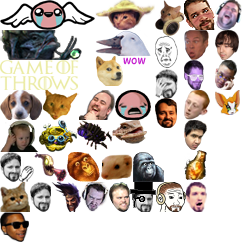
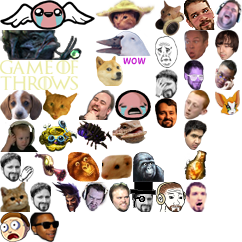
Added DAFUK emote. Removed the unused grunt-contrib-watch module. Bumped version.

Changed region(s): [[0.0, 0.8678, 0.2603, 1.0]]

diff --git a/static/chat/css/style.min.css b/static/chat/css/style.min.css
@@ -1,1 +1,1 @@
-.nano{position:relative;width:100%;height:100%;overflow:hidden}.nano .content{position:absolute;overflow:scroll;overflow-x:hidden;top:0;right:0;bottom:0;left:0}.nano .content:focus{outline:0}.nano .content::-webkit-scrollbar{visibility:hidden}.has-scrollbar .content::-webkit-scrollbar{visibility:visible}.nano:hover>.pane,.pane.active,.pane.flashed{visibility:visible\9;opacity:.99}.nano>.pane{background:rgba(0,0,0,0.3);position:absolute;width:8px;right:5px;top:0;bottom:0;visibility:hidden\9;opacity:.01;-webkit-transition:.2s;-moz-transition:.2s;-o-transition:.2s;transition:.2s}.nano>.pane>.slider{background:#999;position:relative;margin:0 1px;-moz-border-radius:3px;-webkit-border-radius:3px;border-radius:3px}.nano>.pane>.slider:hover,.nano>.pane.active>.slider{background:#eee}.serif{font-family:"Trebuchet MS",sans-serif}.chat{position:relative;width:100%;height:100%;min-width:300px}.chat-output-frame{margin-bottom:35px;height:auto;width:100%;position:absolute;overflow:hidden;top:0;bottom:0;left:0;right:0}.chat-output{width:100%;height:100%}.chat-output .chat-lines{-webkit-backface-visibility:hidden;-webkit-perspective:1000}.chat-lines>div{clear:both;word-wrap:break-word;padding:3px 20px 3px 5px}.chat-lines>div .continue{user-select:none;color:#444}.chat-lines>div i.continue{user-select:none;color:#222}.chat-lines a.user{font-weight:bold;cursor:pointer;font-family:"Trebuchet MS",sans-serif}.chat-lines hr{margin:8px 0}.chat-lines .msg.emote{font-style:italic}.chat-input{width:100%;position:absolute;bottom:0}#chat-top-frame{position:absolute;top:0;left:0;right:0}#chat-bottom-frame{position:absolute;bottom:35px;left:0;right:0}.chat-input>div{margin:5px 0 0 0;background:#2e2e2e}.chat-tools-wrap{position:absolute;right:0;bottom:0;margin:0;user-select:none;-moz-user-select:none;-webkit-user-select:none}.chat-input-wrap{margin:0;margin-right:60px}#user-mute-form,#user-ban-form{margin-top:10px;display:none}#user-mute-form #banTimeLength{width:150px}.chat-input-control{padding:3px 0 0 5px;height:28px;margin:1px;border-radius:3px}.chat-input-control .input{background:0;resize:none;margin:0;padding:0;width:100%;border:0;border-radius:0;box-shadow:none;box-sizing:border-box}.chat-input-control .input:focus{box-shadow:none}.chat-tools-wrap>div{height:30px;overflow:hidden}.chat-tools-wrap .iconbtn{cursor:pointer;width:30px;height:28px;line-height:28px;float:left;display:block;text-align:center;color:#555}.chat-tools-wrap .iconbtn:hover{color:white}.chat-tools-wrap .iconbtn.active{color:white}.chat .chat-lines i[class^="icon-"]{width:16px;line-height:16px;height:16px;margin:0;opacity:1;display:inline-block;vertical-align:middle}.chat-input-control input,.chat-lines{font-family:Helvetica,"Trebuchet MS",Verdana,sans-serif;font-size:13px;line-height:1.5em}.chat-lines time{font-size:11px}.chat-lines a.externallink{color:#02c2ff}.chat-lines a.externallink:visited{color:#004d74}.chat-lines a.externallink:hover,.chat-lines a.externallink:focus{color:#08c}.chat-lines a.nsfw-link{border-bottom:1px dashed red}.chat .chat-lines time,.chat .user-msg i{display:none!important}.chat.chat-time .chat-lines time,.chat.chat-icons .user-msg i,.chat-lines i[class*='icon-subscriber']{display:inline-block!important}.chat-theme-dark{background:#080808;border-radius:0}.chat-theme-dark .chat-input-wrap{border:0}.chat-theme-dark .chat-lines time{color:#414141}.chat-theme-dark .chat-lines>div.highlight time,.chat-lines>div.highlight .continue{color:#838383}.chat-theme-dark .chat-lines>.command-msg,.chat-theme-dark .chat-lines>.error-msg,.chat-theme-dark .chat-lines>.status-msg,.chat-theme-dark .chat-lines>.ui-msg,.chat-theme-dark .chat-lines>.own-msg,.chat-theme-dark .chat-lines>.highlight{color:#dedede}.chat-theme-dark .chat-lines>.broadcast-msg .msg{color:#edea12}.chat-theme-dark .chat-lines>.own-msg{background:linear-gradient(to right,rgba(255,255,255,0.05) 0,rgba(255,255,255,0.05) 90%,rgba(255,255,255,0) 100%)}.chat-theme-dark .chat-lines>.highlight{background:linear-gradient(to right,rgba(0,150,255,0.5) 0,rgba(0,150,255,0) 100%)}.chat-theme-dark .chat-lines>.command-msg,.chat-theme-dark .chat-lines>.own-msg,.chat-theme-dark .chat-lines>.highlight .msg,.chat-theme-dark .chat-lines>.broadcast-msg .msg{text-shadow:1px 1px 0 rgba(0,0,0,0.5)}.chat-theme-dark .chat-input-control{background:#090909;border:0}.chat-theme-dark .chat-input-control input{color:#9e9e9e;background:#090909;text-shadow:none;outline:0}.chat-theme-dark input:input-placeholder{color:#222}.chat-theme-dark input::-webkit-input-placeholder{color:#222}.chat-theme-dark input:-moz-placeholder{color:#222}.chat-theme-dark input::-moz-placeholder{color:#222}.chat-theme-dark input:-ms-input-placeholder{color:#222}.chat-theme-dark .nano>.pane{background:rgba(0,0,0,0.3);width:8px;right:5px;top:5px;bottom:0}.chat-theme-dark .nano>.pane>.slider{background:#999}.chat-theme-dark .nano>.pane>.slider:hover,.chat-theme-dark .nano>.pane.active>.slider{background:#eee}.chat.focus-user .chat-lines>.user-msg{opacity:.3}.chat.focus-user .chat-lines>.user-msg.focused,.chat.focus-user .chat-lines>.user-msg.highlight{opacity:1}.chat .alert{margin-bottom:0;padding-top:4px;padding-bottom:4px;font-size:12px}.hint-popup,.user-tools{width:100%;top:-5px;left:0}.hint-popup>div,.user-tools>div,#chat-broadcasts>div{border-radius:4px;margin:5px 20px 5px 5px}.user-tools .user-tools-user{font-family:"Trebuchet MS",sans-serif}#chat-broadcasts .chat-emote{display:none}.hint-popup>div{box-shadow:0 2px 6px rgba(0,0,0,0.9);padding:0}.hint-popup a:hover{cursor:pointer;color:#6aa7f9}.hint-popup .hidehint,.hint-popup .nexthint{top:0;position:relative;float:right;right:-23px;line-height:20px;-webkit-touch-callout:none;-webkit-user-select:none;-khtml-user-select:none;-moz-user-select:none;-ms-user-select:none;user-select:none;color:#CCC}.hint-popup .hidehint{right:-27px}.hint-popup .hidehint:hover,.hint-popup .nexthint:hover{color:#111}.hint-popup .alert{padding-right:35px}.user-tools-wrap{margin-left:-5px}.user-tools-wrap>a{margin:0 5px}.chat-menu,.user-tools,.hint-popup{display:none;opacity:0}.chat-menu.active,.user-tools.active,.hint-popup.active{display:block;opacity:1}.chat-menu,.user-tools,.hint-popup{font-size:12px}.chat-menu{position:absolute;right:20px;bottom:-5px;width:240px}.chat-menu.active{bottom:0}.chat-menu h5,.user-tools h5{text-shadow:-1px -1px 0 rgba(0,0,0,0.25);user-select:none;-moz-user-select:none;-webkit-user-select:none;background:#4f4f4f;background:linear-gradient(to bottom,#4f4f4f 0,#2e2e2e 100%);border-bottom:1px solid #121212;margin:0;line-height:20px;display:block;padding:5px 15px 5px 10px;border-radius:4px 4px 0 0}.chat-menu .toolbar{width:100%;position:absolute;top:-31px;left:0}.chat-menu li,.chat-menu label{font-size:12px}.chat-menu label{font-weight:normal;margin:0 0 5px 0}.chat-menu label:hover{color:white}.chat-menu .list-wrap,.chat-menu .list-wrap .scrollable{max-height:330px;font-size:.9em}.chat-menu .list-wrap,.user-tools>div{box-shadow:0 2px 6px rgba(0,0,0,0.9);border-radius:0 0 4px 4px;background:rgba(25,25,25,0.9);padding:0}.chat-menu .list-wrap{margin-top:auto}.chat-menu ul,.user-tools .tools{padding:0 10px;margin:10px 0}.chat-menu ul>li:first-child h5{margin-top:0}.chat-menu ul li{text-overflow:ellipsis;overflow:hidden}#chat-user-list ul li{line-height:18px}#chat-user-list h6:first-child{margin-top:10px}#chat-user-list h6{font-weight:bold;margin:0 0 5px 5px}#chat-user-list hr{margin:5px 0}#chat-user-list ul{margin:0}#chat-user-list .user{cursor:pointer;font-family:"Trebuchet MS",sans-serif}.user-tools a#unignoreuser,.user-tools.user-ignored a#ignoreuser{display:none}.user-tools.user-ignored a#unignoreuser{display:inline-block}.chat-menu .nano>.pane{width:8px;right:3px;top:3px;bottom:3px}.chat-login-msg{display:inline-block;width:100%;padding:0 0 0 5px;line-height:30px;color:rgba(255,255,255,0.5);text-shadow:-1px -1px 0 rgba(0,0,0,0.25)}.chat-lines .emotecount{color:white;text-shadow:1px 1px 0 rgba(0,0,0,0.9);font-size:10px;line-height:10px;border-radius:10px;padding:3px 6px;margin:0 0 0 5px;background:#191919}.chat-lines .emotecount{text-shadow:none;animation:emotecount 600ms 1;-webkit-animation:emotecount 600ms 1}@keyframes emotecount{from{color:black;background-color:white}to{color:white;background-color:#333}}@-webkit-keyframes emotecount{from{color:black;background-color:white}to{color:white;background-color:#333}}.chat-lines .emotecount.x5>span{font-size:10px}.chat-lines .emotecount.x10>span{font-size:16px}.chat-lines .emotecount.x20>span{font-size:25px;vertical-align:middle}.chat-lines .emotecount.x30>span{font-size:35px;vertical-align:middle}.chat-lines .emotecount.x50>span{font-size:40px;vertical-align:middle}.chat a.user{color:#cacaca}.chat a.user:hover{color:#fafafa}.chat a.subscriber{color:#488ce7}.chat a.subscriber:hover{color:#6aa7f9}.chat a.flair3{color:#0060ff;text-shadow:1px 1px 0 black}.chat a.flair3:hover{color:#6aa7f9}.chat a.flair8{color:#a427d6;text-shadow:1px 1px 0 black}.chat a.flair8:hover{color:#e564f4}.chat a.vip{color:#4db524}.chat a.vip:hover{color:#4db524}.chat a.bot{color:#e79015}.chat a.bot:hover{color:#e79015}.chat a.admin{color:#b91010}.chat a.admin:hover{color:#f00}.chat .greentext{color:#6ca528}.chat-emote{display:inline-block;position:relative;top:10px;margin:0 2px}.chat-emote.chat-emote-OverRustle{animation:rustle 100ms 7;-webkit-animation:rustle 100ms 7}.chat-emote.chat-emote-OverRustle:hover{animation:rustle1 100ms infinite;-webkit-animation:rustle1 100ms infinite}@keyframes rustle{from{left:0}to{left:2px}}@-webkit-keyframes rustle{from{left:0}to{left:2px}}@keyframes rustle1{from{left:0}to{left:2px}}@-webkit-keyframes rustle1{from{left:0}to{left:2px}}.chat-emote.chat-emote-AngelThump,.chat-emote.chat-emote-Abathur,.chat-emote.chat-emote-GameOfThrows,.chat-emote.chat-emote-KINGSLY,.chat-emote.chat-emote-DuckerZ,.chat-emote.chat-emote-SoDoge,.chat-emote.chat-emote-FrankerZ,.chat-emote.chat-emote-FeedNathan,.chat-emote.chat-emote-Heimerdonger,.chat-emote.chat-emote-ASLAN,.chat-emote.chat-emote-LUL,.chat-emote.chat-emote-DJAslan,.chat-emote.chat-emote-BibleThump,.chat-emote.chat-emote-INFESTINY,.chat-emote.chat-emote-Hhhehhehe,.chat-emote.chat-emote-Klappa,.chat-emote.chat-emote-SURPRISE,.chat-emote.chat-emote-OverRustle,.chat-emote.chat-emote-FerretLOL,.chat-emote.chat-emote-SoSad,.chat-emote.chat-emote-NoTears,.chat-emote.chat-emote-DestiSenpaii,.chat-emote.chat-emote-WhoahDude,.chat-emote.chat-emote-WORTH,.chat-emote.chat-emote-UWOTM8,.chat-emote.chat-emote-TooSpicy,.chat-emote.chat-emote-Sippy,.chat-emote.chat-emote-OhKrappa,.chat-emote.chat-emote-Nappa,.chat-emote.chat-emote-MotherFuckinGame,.chat-emote.chat-emote-Kappa,.chat-emote.chat-emote-Dravewin,.chat-emote.chat-emote-Disgustiny,.chat-emote.chat-emote-DatGeoff,.chat-emote.chat-emote-DappaKappa,.chat-emote.chat-emote-DaFeels,.chat-emote.chat-emote-DURRSTINY,.chat-emote.chat-emote-DESBRO,.chat-emote.chat-emote-CallChad,.chat-emote.chat-emote-CallCatz,.chat-emote.chat-emote-BasedGod,.chat-emote.chat-emote-FIDGETLOL{background-image:url('../img/emoticons.png');background-repeat:no-repeat}.chat-emote.chat-emote-AngelThump{background-position:0 0;width:95px;height:30px;margin-top:-30px}.chat-emote.chat-emote-Abathur{background-position:0 -30px;width:82px;height:30px;margin-top:-30px}.chat-emote.chat-emote-GameOfThrows{background-position:0 -60px;width:79px;height:30px;margin-top:-30px}.chat-emote.chat-emote-KINGSLY{background-position:-95px 0;width:60px;height:30px;margin-top:-30px}.chat-emote.chat-emote-DuckerZ{background-position:-95px -30px;width:56px;height:26px;margin-top:-26px}.chat-emote.chat-emote-SoDoge{background-position:-95px -56px;width:51px;height:30px;margin-top:-30px}.chat-emote.chat-emote-FrankerZ{background-position:0 -90px;width:42px;height:30px;margin-top:-30px}.chat-emote.chat-emote-FeedNathan{background-position:0 -120px;width:39px;height:32px;margin-top:-32px}.chat-emote.chat-emote-Heimerdonger{background-position:-39px -120px;width:38px;height:32px;margin-top:-32px}.chat-emote.chat-emote-ASLAN{background-position:-42px -90px;width:37px;height:30px;margin-top:-30px}.chat-emote.chat-emote-LUL{background-position:-79px -90px;width:36px;height:30px;margin-top:-30px}.chat-emote.chat-emote-DJAslan{background-position:-155px 0;width:29px;height:36px;margin-top:-36px}.chat-emote.chat-emote-BibleThump{background-position:-115px -90px;width:36px;height:30px;margin-top:-30px}.chat-emote.chat-emote-INFESTINY{background-position:-77px -120px;width:35px;height:30px;margin-top:-30px}.chat-emote.chat-emote-Hhhehhehe{background-position:-112px -120px;width:35px;height:24px;margin-top:-24px}.chat-emote.chat-emote-Klappa{background-position:0 -152px;width:34px;height:30px;margin-top:-30px}.chat-emote.chat-emote-SURPRISE{background-position:-34px -152px;width:33px;height:30px;margin-top:-30px}.chat-emote.chat-emote-OverRustle{background-position:-67px -152px;width:33px;height:30px;margin-top:-30px}.chat-emote.chat-emote-FerretLOL{background-position:-100px -152px;width:33px;height:30px;margin-top:-30px}.chat-emote.chat-emote-SoSad{background-position:-155px -36px;width:23px;height:32px;margin-top:-32px}.chat-emote.chat-emote-NoTears{background-position:-133px -152px;width:31px;height:30px;margin-top:-30px}.chat-emote.chat-emote-DestiSenpaii{background-position:-184px 0;width:31px;height:30px;margin-top:-30px}.chat-emote.chat-emote-WhoahDude{background-position:-184px -30px;width:25px;height:30px;margin-top:-30px}.chat-emote.chat-emote-WORTH{background-position:-184px -60px;width:20px;height:30px;margin-top:-30px}.chat-emote.chat-emote-UWOTM8{background-position:-184px -90px;width:26px;height:30px;margin-top:-30px}.chat-emote.chat-emote-TooSpicy{background-position:-184px -120px;width:23px;height:30px;margin-top:-30px}.chat-emote.chat-emote-Sippy{background-position:-184px -150px;width:24px;height:30px;margin-top:-30px}.chat-emote.chat-emote-OhKrappa{background-position:-155px -68px;width:23px;height:30px;margin-top:-30px}.chat-emote.chat-emote-Nappa{background-position:-155px -98px;width:22px;height:30px;margin-top:-30px}.chat-emote.chat-emote-MotherFuckinGame{background-position:0 -182px;width:30px;height:30px;margin-top:-30px}.chat-emote.chat-emote-Kappa{background-position:-30px -182px;width:21px;height:30px;margin-top:-30px}.chat-emote.chat-emote-Dravewin{background-position:-51px -182px;width:30px;height:30px;margin-top:-30px}.chat-emote.chat-emote-Disgustiny{background-position:-81px -182px;width:28px;height:30px;margin-top:-30px}.chat-emote.chat-emote-DatGeoff{background-position:-109px -182px;width:21px;height:30px;margin-top:-30px}.chat-emote.chat-emote-DappaKappa{background-position:-130px -182px;width:26px;height:30px;margin-top:-30px}.chat-emote.chat-emote-DaFeels{background-position:-156px -182px;width:30px;height:30px;margin-top:-30px}.chat-emote.chat-emote-DURRSTINY{background-position:-186px -182px;width:21px;height:30px;margin-top:-30px}.chat-emote.chat-emote-DESBRO{background-position:-215px 0;width:27px;height:30px;margin-top:-30px}.chat-emote.chat-emote-CallChad{background-position:-215px -30px;width:24px;height:30px;margin-top:-30px}.chat-emote.chat-emote-CallCatz{background-position:-215px -60px;width:22px;height:30px;margin-top:-30px}.chat-emote.chat-emote-BasedGod{background-position:0 -212px;width:29px;height:30px;margin-top:-30px}.chat-emote.chat-emote-FIDGETLOL{background-position:-215px -90px;width:25px;height:25px;margin-top:-25px}.icon-subscriber,.icon-subscribert2,.icon-subscribert3,.icon-subscribert4{-webkit-transform:rotate(0deg);-webkit-transition:rotate .2s ease-in-out;-moz-transition:rotate .2s ease-in-out;-o-transition:rotate .2s ease-in-out;transition:rotate .2s ease-in-out}.icon-subscriber:hover,.icon-subscribert2:hover,.icon-subscribert3:hover,.icon-subscribert4:hover{-moz-animation:spin 3s infinite linear;-webkit-animation:spin 3s infinite linear}.icon-vip:hover,.icon-vip,.icon-trusted,.icon-subscribert4,.icon-subscribert3,.icon-subscribert2,.icon-subscriber,.icon-status,.icon-notable,.icon-moderator,.icon-info,.icon-evenotable,.icon-error,.icon-contributor,.icon-compchallenge:hover,.icon-compchallenge,.icon-command,.icon-bot:hover,.icon-bot,.icon-admin:hover,.icon-admin{background-image:url('../img/icons.png');background-repeat:no-repeat}.icon-vip:hover{background-position:0 0;width:16px;height:16px}.icon-vip{background-position:-16px 0;width:16px;height:16px}.icon-trusted{background-position:0 -16px;width:16px;height:16px}.icon-subscribert4{background-position:-16px -16px;width:16px;height:16px}.icon-subscribert3{background-position:-32px 0;width:16px;height:16px}.icon-subscribert2{background-position:-32px -16px;width:16px;height:16px}.icon-subscriber{background-position:0 -32px;width:16px;height:16px}.icon-status{background-position:-16px -32px;width:16px;height:16px}.icon-notable{background-position:-32px -32px;width:16px;height:16px}.icon-moderator{background-position:-48px 0;width:16px;height:16px}.icon-info{background-position:-48px -16px;width:16px;height:16px}.icon-evenotable{background-position:-48px -32px;width:16px;height:16px}.icon-error{background-position:0 -48px;width:16px;height:16px}.icon-contributor{background-position:-16px -48px;width:16px;height:16px}.icon-compchallenge:hover{background-position:-32px -48px;width:16px;height:16px}.icon-compchallenge{background-position:-48px -48px;width:16px;height:16px}.icon-command{background-position:-64px 0;width:16px;height:16px}.icon-bot:hover{background-position:-64px -16px;width:16px;height:16px}.icon-bot{background-position:-64px -32px;width:16px;height:16px}.icon-admin:hover{background-position:-64px -48px;width:16px;height:16px}.icon-admin{background-position:0 -64px;width:16px;height:16px}
+.nano{position:relative;width:100%;height:100%;overflow:hidden}.nano .content{position:absolute;overflow:scroll;overflow-x:hidden;top:0;right:0;bottom:0;left:0}.nano .content:focus{outline:0}.nano .content::-webkit-scrollbar{visibility:hidden}.has-scrollbar .content::-webkit-scrollbar{visibility:visible}.nano:hover>.pane,.pane.active,.pane.flashed{visibility:visible\9;opacity:.99}.nano>.pane{background:rgba(0,0,0,0.3);position:absolute;width:8px;right:5px;top:0;bottom:0;visibility:hidden\9;opacity:.01;-webkit-transition:.2s;-moz-transition:.2s;-o-transition:.2s;transition:.2s}.nano>.pane>.slider{background:#999;position:relative;margin:0 1px;-moz-border-radius:3px;-webkit-border-radius:3px;border-radius:3px}.nano>.pane>.slider:hover,.nano>.pane.active>.slider{background:#eee}.serif{font-family:"Trebuchet MS",sans-serif}.chat{position:relative;width:100%;height:100%;min-width:300px}.chat-output-frame{margin-bottom:35px;height:auto;width:100%;position:absolute;overflow:hidden;top:0;bottom:0;left:0;right:0}.chat-output{width:100%;height:100%}.chat-output .chat-lines{-webkit-backface-visibility:hidden;-webkit-perspective:1000}.chat-lines>div{clear:both;word-wrap:break-word;padding:3px 20px 3px 5px}.chat-lines>div .continue{user-select:none;color:#444}.chat-lines>div i.continue{user-select:none;color:#222}.chat-lines a.user{font-weight:bold;cursor:pointer;font-family:"Trebuchet MS",sans-serif}.chat-lines hr{margin:8px 0}.chat-lines .msg.emote{font-style:italic}.chat-input{width:100%;position:absolute;bottom:0}#chat-top-frame{position:absolute;top:0;left:0;right:0}#chat-bottom-frame{position:absolute;bottom:35px;left:0;right:0}.chat-input>div{margin:5px 0 0 0;background:#2e2e2e}.chat-tools-wrap{position:absolute;right:0;bottom:0;margin:0;user-select:none;-moz-user-select:none;-webkit-user-select:none}.chat-input-wrap{margin:0;margin-right:60px}#user-mute-form,#user-ban-form{margin-top:10px;display:none}#user-mute-form #banTimeLength{width:150px}.chat-input-control{padding:3px 0 0 5px;height:28px;margin:1px;border-radius:3px}.chat-input-control .input{background:0;resize:none;margin:0;padding:0;width:100%;border:0;border-radius:0;box-shadow:none;box-sizing:border-box}.chat-input-control .input:focus{box-shadow:none}.chat-tools-wrap>div{height:30px;overflow:hidden}.chat-tools-wrap .iconbtn{cursor:pointer;width:30px;height:28px;line-height:28px;float:left;display:block;text-align:center;color:#555}.chat-tools-wrap .iconbtn:hover{color:white}.chat-tools-wrap .iconbtn.active{color:white}.chat .chat-lines i[class^="icon-"]{width:16px;line-height:16px;height:16px;margin:0;opacity:1;display:inline-block;vertical-align:middle}.chat-input-control input,.chat-lines{font-family:Helvetica,"Trebuchet MS",Verdana,sans-serif;font-size:13px;line-height:1.5em}.chat-lines time{font-size:11px}.chat-lines a.externallink{color:#02c2ff}.chat-lines a.externallink:visited{color:#004d74}.chat-lines a.externallink:hover,.chat-lines a.externallink:focus{color:#08c}.chat-lines a.nsfw-link{border-bottom:1px dashed red}.chat .chat-lines time,.chat .user-msg i{display:none!important}.chat.chat-time .chat-lines time,.chat.chat-icons .user-msg i,.chat-lines i[class*='icon-subscriber']{display:inline-block!important}.chat-theme-dark{background:#080808;border-radius:0}.chat-theme-dark .chat-input-wrap{border:0}.chat-theme-dark .chat-lines time{color:#414141}.chat-theme-dark .chat-lines>div.highlight time,.chat-lines>div.highlight .continue{color:#838383}.chat-theme-dark .chat-lines>.command-msg,.chat-theme-dark .chat-lines>.error-msg,.chat-theme-dark .chat-lines>.status-msg,.chat-theme-dark .chat-lines>.ui-msg,.chat-theme-dark .chat-lines>.own-msg,.chat-theme-dark .chat-lines>.highlight{color:#dedede}.chat-theme-dark .chat-lines>.broadcast-msg .msg{color:#edea12}.chat-theme-dark .chat-lines>.own-msg{background:linear-gradient(to right,rgba(255,255,255,0.05) 0,rgba(255,255,255,0.05) 90%,rgba(255,255,255,0) 100%)}.chat-theme-dark .chat-lines>.highlight{background:linear-gradient(to right,rgba(0,150,255,0.5) 0,rgba(0,150,255,0) 100%)}.chat-theme-dark .chat-lines>.command-msg,.chat-theme-dark .chat-lines>.own-msg,.chat-theme-dark .chat-lines>.highlight .msg,.chat-theme-dark .chat-lines>.broadcast-msg .msg{text-shadow:1px 1px 0 rgba(0,0,0,0.5)}.chat-theme-dark .chat-input-control{background:#090909;border:0}.chat-theme-dark .chat-input-control input{color:#9e9e9e;background:#090909;text-shadow:none;outline:0}.chat-theme-dark input:input-placeholder{color:#222}.chat-theme-dark input::-webkit-input-placeholder{color:#222}.chat-theme-dark input:-moz-placeholder{color:#222}.chat-theme-dark input::-moz-placeholder{color:#222}.chat-theme-dark input:-ms-input-placeholder{color:#222}.chat-theme-dark .nano>.pane{background:rgba(0,0,0,0.3);width:8px;right:5px;top:5px;bottom:0}.chat-theme-dark .nano>.pane>.slider{background:#999}.chat-theme-dark .nano>.pane>.slider:hover,.chat-theme-dark .nano>.pane.active>.slider{background:#eee}.chat.focus-user .chat-lines>.user-msg{opacity:.3}.chat.focus-user .chat-lines>.user-msg.focused,.chat.focus-user .chat-lines>.user-msg.highlight{opacity:1}.chat .alert{margin-bottom:0;padding-top:4px;padding-bottom:4px;font-size:12px}.hint-popup,.user-tools{width:100%;top:-5px;left:0}.hint-popup>div,.user-tools>div,#chat-broadcasts>div{border-radius:4px;margin:5px 20px 5px 5px}.user-tools .user-tools-user{font-family:"Trebuchet MS",sans-serif}#chat-broadcasts .chat-emote{display:none}.hint-popup>div{box-shadow:0 2px 6px rgba(0,0,0,0.9);padding:0}.hint-popup a:hover{cursor:pointer;color:#6aa7f9}.hint-popup .hidehint,.hint-popup .nexthint{top:0;position:relative;float:right;right:-23px;line-height:20px;-webkit-touch-callout:none;-webkit-user-select:none;-khtml-user-select:none;-moz-user-select:none;-ms-user-select:none;user-select:none;color:#CCC}.hint-popup .hidehint{right:-27px}.hint-popup .hidehint:hover,.hint-popup .nexthint:hover{color:#111}.hint-popup .alert{padding-right:35px}.user-tools-wrap{margin-left:-5px}.user-tools-wrap>a{margin:0 5px}.chat-menu,.user-tools,.hint-popup{display:none;opacity:0}.chat-menu.active,.user-tools.active,.hint-popup.active{display:block;opacity:1}.chat-menu,.user-tools,.hint-popup{font-size:12px}.chat-menu{position:absolute;right:20px;bottom:-5px;width:240px}.chat-menu.active{bottom:0}.chat-menu h5,.user-tools h5{text-shadow:-1px -1px 0 rgba(0,0,0,0.25);user-select:none;-moz-user-select:none;-webkit-user-select:none;background:#4f4f4f;background:linear-gradient(to bottom,#4f4f4f 0,#2e2e2e 100%);border-bottom:1px solid #121212;margin:0;line-height:20px;display:block;padding:5px 15px 5px 10px;border-radius:4px 4px 0 0}.chat-menu .toolbar{width:100%;position:absolute;top:-31px;left:0}.chat-menu li,.chat-menu label{font-size:12px}.chat-menu label{font-weight:normal;margin:0 0 5px 0}.chat-menu label:hover{color:white}.chat-menu .list-wrap,.chat-menu .list-wrap .scrollable{max-height:330px;font-size:.9em}.chat-menu .list-wrap,.user-tools>div{box-shadow:0 2px 6px rgba(0,0,0,0.9);border-radius:0 0 4px 4px;background:rgba(25,25,25,0.9);padding:0}.chat-menu .list-wrap{margin-top:auto}.chat-menu ul,.user-tools .tools{padding:0 10px;margin:10px 0}.chat-menu ul>li:first-child h5{margin-top:0}.chat-menu ul li{text-overflow:ellipsis;overflow:hidden}#chat-user-list ul li{line-height:18px}#chat-user-list h6:first-child{margin-top:10px}#chat-user-list h6{font-weight:bold;margin:0 0 5px 5px}#chat-user-list hr{margin:5px 0}#chat-user-list ul{margin:0}#chat-user-list .user{cursor:pointer;font-family:"Trebuchet MS",sans-serif}.user-tools a#unignoreuser,.user-tools.user-ignored a#ignoreuser{display:none}.user-tools.user-ignored a#unignoreuser{display:inline-block}.chat-menu .nano>.pane{width:8px;right:3px;top:3px;bottom:3px}.chat-login-msg{display:inline-block;width:100%;padding:0 0 0 5px;line-height:30px;color:rgba(255,255,255,0.5);text-shadow:-1px -1px 0 rgba(0,0,0,0.25)}.chat-lines .emotecount{color:white;text-shadow:1px 1px 0 rgba(0,0,0,0.9);font-size:10px;line-height:10px;border-radius:10px;padding:3px 6px;margin:0 0 0 5px;background:#191919}.chat-lines .emotecount{text-shadow:none;animation:emotecount 600ms 1;-webkit-animation:emotecount 600ms 1}@keyframes emotecount{from{color:black;background-color:white}to{color:white;background-color:#333}}@-webkit-keyframes emotecount{from{color:black;background-color:white}to{color:white;background-color:#333}}.chat-lines .emotecount.x5>span{font-size:10px}.chat-lines .emotecount.x10>span{font-size:16px}.chat-lines .emotecount.x20>span{font-size:25px;vertical-align:middle}.chat-lines .emotecount.x30>span{font-size:35px;vertical-align:middle}.chat-lines .emotecount.x50>span{font-size:40px;vertical-align:middle}.chat a.user{color:#cacaca}.chat a.user:hover{color:#fafafa}.chat a.subscriber{color:#488ce7}.chat a.subscriber:hover{color:#6aa7f9}.chat a.flair3{color:#0060ff;text-shadow:1px 1px 0 black}.chat a.flair3:hover{color:#6aa7f9}.chat a.flair8{color:#a427d6;text-shadow:1px 1px 0 black}.chat a.flair8:hover{color:#e564f4}.chat a.vip{color:#4db524}.chat a.vip:hover{color:#4db524}.chat a.bot{color:#e79015}.chat a.bot:hover{color:#e79015}.chat a.admin{color:#b91010}.chat a.admin:hover{color:#f00}.chat .greentext{color:#6ca528}.chat-emote{display:inline-block;position:relative;top:10px;margin:0 2px}.chat-emote.chat-emote-OverRustle{animation:rustle 100ms 7;-webkit-animation:rustle 100ms 7}.chat-emote.chat-emote-OverRustle:hover{animation:rustle1 100ms infinite;-webkit-animation:rustle1 100ms infinite}@keyframes rustle{from{left:0}to{left:2px}}@-webkit-keyframes rustle{from{left:0}to{left:2px}}@keyframes rustle1{from{left:0}to{left:2px}}@-webkit-keyframes rustle1{from{left:0}to{left:2px}}.chat-emote.chat-emote-AngelThump,.chat-emote.chat-emote-Abathur,.chat-emote.chat-emote-GameOfThrows,.chat-emote.chat-emote-KINGSLY,.chat-emote.chat-emote-DuckerZ,.chat-emote.chat-emote-SoDoge,.chat-emote.chat-emote-FrankerZ,.chat-emote.chat-emote-FeedNathan,.chat-emote.chat-emote-Heimerdonger,.chat-emote.chat-emote-ASLAN,.chat-emote.chat-emote-LUL,.chat-emote.chat-emote-DJAslan,.chat-emote.chat-emote-BibleThump,.chat-emote.chat-emote-INFESTINY,.chat-emote.chat-emote-Hhhehhehe,.chat-emote.chat-emote-Klappa,.chat-emote.chat-emote-SURPRISE,.chat-emote.chat-emote-OverRustle,.chat-emote.chat-emote-FerretLOL,.chat-emote.chat-emote-SoSad,.chat-emote.chat-emote-NoTears,.chat-emote.chat-emote-DestiSenpaii,.chat-emote.chat-emote-WhoahDude,.chat-emote.chat-emote-WORTH,.chat-emote.chat-emote-UWOTM8,.chat-emote.chat-emote-TooSpicy,.chat-emote.chat-emote-Sippy,.chat-emote.chat-emote-OhKrappa,.chat-emote.chat-emote-Nappa,.chat-emote.chat-emote-MotherFuckinGame,.chat-emote.chat-emote-Kappa,.chat-emote.chat-emote-Dravewin,.chat-emote.chat-emote-Disgustiny,.chat-emote.chat-emote-DatGeoff,.chat-emote.chat-emote-DappaKappa,.chat-emote.chat-emote-DaFeels,.chat-emote.chat-emote-DURRSTINY,.chat-emote.chat-emote-DESBRO,.chat-emote.chat-emote-DAFUK,.chat-emote.chat-emote-CallChad,.chat-emote.chat-emote-CallCatz,.chat-emote.chat-emote-BasedGod,.chat-emote.chat-emote-FIDGETLOL{background-image:url('../img/emoticons.png');background-repeat:no-repeat}.chat-emote.chat-emote-AngelThump{background-position:0 0;width:95px;height:30px;margin-top:-30px}.chat-emote.chat-emote-Abathur{background-position:0 -30px;width:82px;height:30px;margin-top:-30px}.chat-emote.chat-emote-GameOfThrows{background-position:0 -60px;width:79px;height:30px;margin-top:-30px}.chat-emote.chat-emote-KINGSLY{background-position:-95px 0;width:60px;height:30px;margin-top:-30px}.chat-emote.chat-emote-DuckerZ{background-position:-95px -30px;width:56px;height:26px;margin-top:-26px}.chat-emote.chat-emote-SoDoge{background-position:-95px -56px;width:51px;height:30px;margin-top:-30px}.chat-emote.chat-emote-FrankerZ{background-position:0 -90px;width:42px;height:30px;margin-top:-30px}.chat-emote.chat-emote-FeedNathan{background-position:0 -120px;width:39px;height:32px;margin-top:-32px}.chat-emote.chat-emote-Heimerdonger{background-position:-39px -120px;width:38px;height:32px;margin-top:-32px}.chat-emote.chat-emote-ASLAN{background-position:-42px -90px;width:37px;height:30px;margin-top:-30px}.chat-emote.chat-emote-LUL{background-position:-79px -90px;width:36px;height:30px;margin-top:-30px}.chat-emote.chat-emote-DJAslan{background-position:-155px 0;width:29px;height:36px;margin-top:-36px}.chat-emote.chat-emote-BibleThump{background-position:-115px -90px;width:36px;height:30px;margin-top:-30px}.chat-emote.chat-emote-INFESTINY{background-position:-77px -120px;width:35px;height:30px;margin-top:-30px}.chat-emote.chat-emote-Hhhehhehe{background-position:-112px -120px;width:35px;height:24px;margin-top:-24px}.chat-emote.chat-emote-Klappa{background-position:0 -152px;width:34px;height:30px;margin-top:-30px}.chat-emote.chat-emote-SURPRISE{background-position:-34px -152px;width:33px;height:30px;margin-top:-30px}.chat-emote.chat-emote-OverRustle{background-position:-67px -152px;width:33px;height:30px;margin-top:-30px}.chat-emote.chat-emote-FerretLOL{background-position:-100px -152px;width:33px;height:30px;margin-top:-30px}.chat-emote.chat-emote-SoSad{background-position:-155px -36px;width:23px;height:32px;margin-top:-32px}.chat-emote.chat-emote-NoTears{background-position:-133px -152px;width:31px;height:30px;margin-top:-30px}.chat-emote.chat-emote-DestiSenpaii{background-position:-184px 0;width:31px;height:30px;margin-top:-30px}.chat-emote.chat-emote-WhoahDude{background-position:-184px -30px;width:25px;height:30px;margin-top:-30px}.chat-emote.chat-emote-WORTH{background-position:-184px -60px;width:20px;height:30px;margin-top:-30px}.chat-emote.chat-emote-UWOTM8{background-position:-184px -90px;width:26px;height:30px;margin-top:-30px}.chat-emote.chat-emote-TooSpicy{background-position:-184px -120px;width:23px;height:30px;margin-top:-30px}.chat-emote.chat-emote-Sippy{background-position:-184px -150px;width:24px;height:30px;margin-top:-30px}.chat-emote.chat-emote-OhKrappa{background-position:-155px -68px;width:23px;height:30px;margin-top:-30px}.chat-emote.chat-emote-Nappa{background-position:-155px -98px;width:22px;height:30px;margin-top:-30px}.chat-emote.chat-emote-MotherFuckinGame{background-position:0 -182px;width:30px;height:30px;margin-top:-30px}.chat-emote.chat-emote-Kappa{background-position:-30px -182px;width:21px;height:30px;margin-top:-30px}.chat-emote.chat-emote-Dravewin{background-position:-51px -182px;width:30px;height:30px;margin-top:-30px}.chat-emote.chat-emote-Disgustiny{background-position:-81px -182px;width:28px;height:30px;margin-top:-30px}.chat-emote.chat-emote-DatGeoff{background-position:-109px -182px;width:21px;height:30px;margin-top:-30px}.chat-emote.chat-emote-DappaKappa{background-position:-130px -182px;width:26px;height:30px;margin-top:-30px}.chat-emote.chat-emote-DaFeels{background-position:-156px -182px;width:30px;height:30px;margin-top:-30px}.chat-emote.chat-emote-DURRSTINY{background-position:-186px -182px;width:21px;height:30px;margin-top:-30px}.chat-emote.chat-emote-DESBRO{background-position:-215px 0;width:27px;height:30px;margin-top:-30px}.chat-emote.chat-emote-DAFUK{background-position:0 -212px;width:30px;height:30px;margin-top:-30px}.chat-emote.chat-emote-CallChad{background-position:-215px -30px;width:24px;height:30px;margin-top:-30px}.chat-emote.chat-emote-CallCatz{background-position:-215px -60px;width:22px;height:30px;margin-top:-30px}.chat-emote.chat-emote-BasedGod{background-position:-30px -212px;width:29px;height:30px;margin-top:-30px}.chat-emote.chat-emote-FIDGETLOL{background-position:-215px -90px;width:25px;height:25px;margin-top:-25px}.icon-subscriber,.icon-subscribert2,.icon-subscribert3,.icon-subscribert4{-webkit-transform:rotate(0deg);-webkit-transition:rotate .2s ease-in-out;-moz-transition:rotate .2s ease-in-out;-o-transition:rotate .2s ease-in-out;transition:rotate .2s ease-in-out}.icon-subscriber:hover,.icon-subscribert2:hover,.icon-subscribert3:hover,.icon-subscribert4:hover{-moz-animation:spin 3s infinite linear;-webkit-animation:spin 3s infinite linear}.icon-vip:hover,.icon-vip,.icon-trusted,.icon-subscribert4,.icon-subscribert3,.icon-subscribert2,.icon-subscriber,.icon-status,.icon-notable,.icon-moderator,.icon-info,.icon-evenotable,.icon-error,.icon-contributor,.icon-compchallenge:hover,.icon-compchallenge,.icon-command,.icon-bot:hover,.icon-bot,.icon-admin:hover,.icon-admin{background-image:url('../img/icons.png');background-repeat:no-repeat}.icon-vip:hover{background-position:0 0;width:16px;height:16px}.icon-vip{background-position:-16px 0;width:16px;height:16px}.icon-trusted{background-position:0 -16px;width:16px;height:16px}.icon-subscribert4{background-position:-16px -16px;width:16px;height:16px}.icon-subscribert3{background-position:-32px 0;width:16px;height:16px}.icon-subscribert2{background-position:-32px -16px;width:16px;height:16px}.icon-subscriber{background-position:0 -32px;width:16px;height:16px}.icon-status{background-position:-16px -32px;width:16px;height:16px}.icon-notable{background-position:-32px -32px;width:16px;height:16px}.icon-moderator{background-position:-48px 0;width:16px;height:16px}.icon-info{background-position:-48px -16px;width:16px;height:16px}.icon-evenotable{background-position:-48px -32px;width:16px;height:16px}.icon-error{background-position:0 -48px;width:16px;height:16px}.icon-contributor{background-position:-16px -48px;width:16px;height:16px}.icon-compchallenge:hover{background-position:-32px -48px;width:16px;height:16px}.icon-compchallenge{background-position:-48px -48px;width:16px;height:16px}.icon-command{background-position:-64px 0;width:16px;height:16px}.icon-bot:hover{background-position:-64px -16px;width:16px;height:16px}.icon-bot{background-position:-64px -32px;width:16px;height:16px}.icon-admin:hover{background-position:-64px -48px;width:16px;height:16px}.icon-admin{background-position:0 -64px;width:16px;height:16px}

diff --git a/GruntFile.js b/GruntFile.js
@@ -174,7 +174,6 @@ module.exports = function(grunt) {
 	grunt.loadNpmTasks('grunt-contrib-uglify');
 	grunt.loadNpmTasks('grunt-contrib-less');
 	grunt.loadNpmTasks('grunt-contrib-clean');
-	grunt.loadNpmTasks('grunt-contrib-watch');
 	grunt.loadNpmTasks('grunt-contrib-copy');
 	grunt.loadNpmTasks('grunt-glue');
 	grunt.loadNpmTasks('grunt-bump');

diff --git a/config/config.php b/config/config.php
@@ -54,6 +54,7 @@ return array (
 			'DestiSenpaii',
 			'KINGSLY',
 			'Nappa',
+			'DAFUK',
 		),
 	),
 	'redis' => array(
